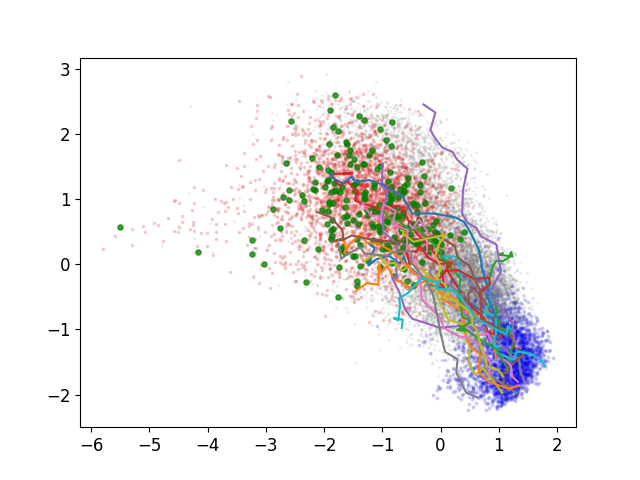
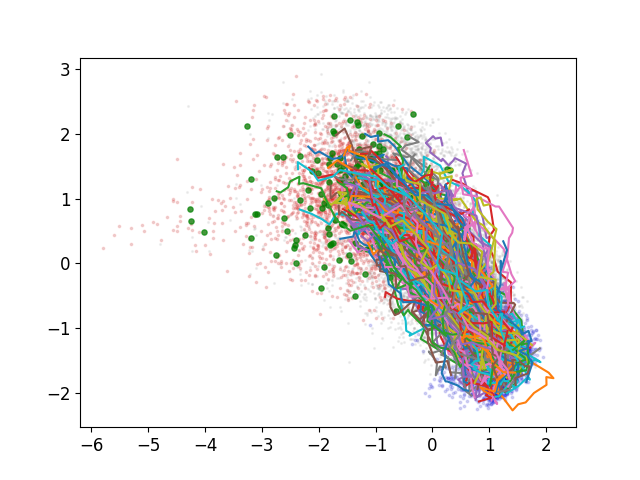
more trajectories

diff --git a/script/EB_Dataset.py b/script/EB_Dataset.py
@@ -61,7 +61,7 @@ result = MLE_IPFP(
 )
 
 # Plot trajectories
-for i in range(20):
+for i in range(len(result[-1][1])):
     # import pdb; pdb.set_trace()
     plt.plot(result[-1][1][i,:,0].cpu().detach().numpy(), result[-1][1][i,:,1].cpu().detach().numpy())
 
